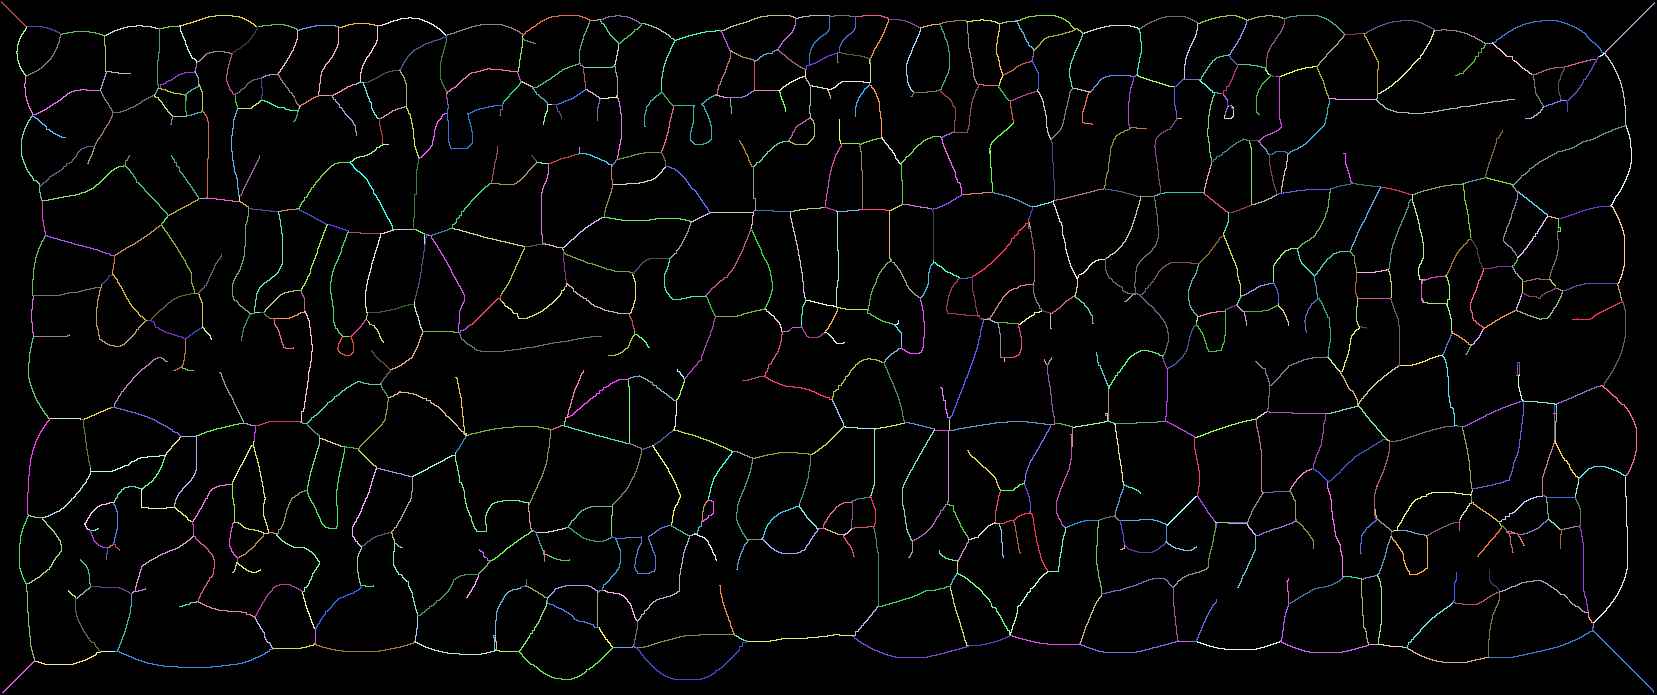
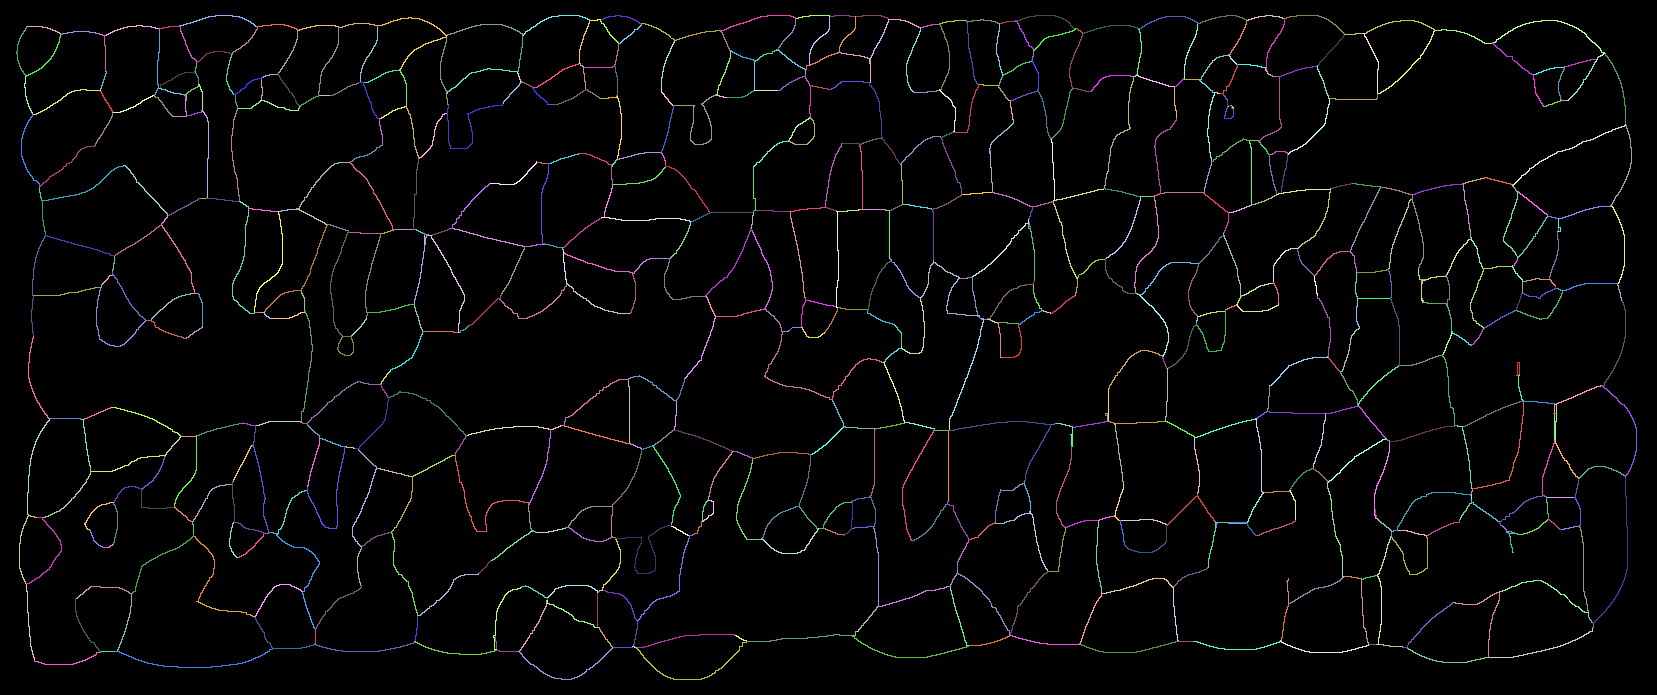
added junction shape calculation
next, classification

diff --git a/main.py b/main.py
@@ -298,9 +298,7 @@ def get_edges(ridges_mask, junction_pixels_mask, vertexes_list):
     # cv2.imwrite('0_edges_mask.png', edges_mask*255)
     # add to a dictionary - edge number, and its list of pixels
     edge_dictionary = {}
-    edge_vertex_dictionary = {}
     edge_set = set()
-    one_vertex_edge_dictionary = {}
     # 0 vertexes, 1 vertexes, 2 vertexes, 3 or more
     stats = [0, 0, 0, 0, 0, 0, 0, 0, 0]
     for i in range(1, n_edges):
@@ -314,11 +312,11 @@ def get_edges(ridges_mask, junction_pixels_mask, vertexes_list):
         # new pixels are added to the edge, then we do the same (increasing edge width/length by 1)
         # new pixels come only from junction pixels
         # this way the edge covers the vertexes as well
-        not_empty = True
+        empty = False
 
         # save_image_like(ridges_mask, edge_pixels, str(i) + "_edge_mask_" + str(j))
-        while not_empty:
-
+        # Note: edges that have one vertex are discarded
+        while not empty:
             # add-in candidate junctions
             # 8-neighborhood of a pixel
             neighborhood = [(-1, -1), (-1, 0), (-1, 1), (0, -1), (0, 0), (0, 1), (1, -1), (1, 0), (1, 1)]
@@ -342,7 +340,7 @@ def get_edges(ridges_mask, junction_pixels_mask, vertexes_list):
             # stopping criteria - once we can't add more pixels to the edge from junction pixels, we stop
             # print(len(candidate_edge_pixels))
             if len(candidate_edge_pixels) == 0:
-                not_empty = False
+                empty = True
             else:
                 edge_pixels += candidate_edge_pixels
             # save_image_like(ridges_mask, edge_pixels, str(i) + "_edge_mask_" + str(j))
@@ -380,25 +378,11 @@ def get_edges(ridges_mask, junction_pixels_mask, vertexes_list):
             edge_dictionary[tuple(start_end_vertexes)] = m_adjacent_edge_pixels
             edge_set.update(edge_pixels)
             stats[2] += 1
-        else:
-            # TODO for now we store them in their own dictionary
-            # once done, we check for each edge if it has minimal overlap with the 2-vertex edges
-            # if so, we do not add them since they are mostly junction 'edges'
-            # otherwise, they are mostly edges that touch document boundaries or document text
-            one_vertex_edge_dictionary[i] = edge_pixels
-
-    # remove edges with one vertex only
-    # for now we remove only those that intersect with other edges - otherwise added as is
-    # TODO decide what to do with this, use or not?
-    # for key in one_vertex_edge_dictionary.keys():
-    #     one_edge_set = set(one_vertex_edge_dictionary[key])
-    #    if len(one_edge_set) - len(set.intersection(one_edge_set, edge_set)) > 10:
-    #       edge_dictionary[key] = one_vertex_edge_dictionary[key]
-    #        rgb_ridge_mask = overlay_edges(rgb_ridge_mask, one_vertex_edge_dictionary[key], (0, 0, 255))
-    #        stats[1] += 1
-    #    else:  # removed
-    #        stats[0] += 1
-
+    # print(stats)
+    # TODO - move to own function - partial edge combination
+    # for each vertex, if it takes part of two edges exactly, we combine the two edges as one
+    # and add the vertex as a new edge pixel
+    # done iteratively until no more vertexes found that have two edges exactly
     before_ridge_mask = cv2.cvtColor(np.zeros_like(ridges_mask), cv2.COLOR_GRAY2RGB)
     for edge_list in edge_dictionary.values():
         before_ridge_mask = overlay_edges(before_ridge_mask, edge_list)
@@ -409,7 +393,6 @@ def get_edges(ridges_mask, junction_pixels_mask, vertexes_list):
         for element in [item for item in edge_dictionary.keys()]:
             all_vertexes.extend(element)
         counted_edges = col.Counter(all_vertexes)
-
         # we check for each vertex in how many edges it participates in
         # each key has two vertexes of an edge (start, end)
         # for each vertex we count the number of times it is found in the edge list
@@ -442,11 +425,38 @@ def get_edges(ridges_mask, junction_pixels_mask, vertexes_list):
     after_ridge_mask = cv2.cvtColor(np.zeros_like(ridges_mask), cv2.COLOR_GRAY2RGB)
     for edge_list in edge_dictionary.values():
         after_ridge_mask = overlay_edges(after_ridge_mask, edge_list)
-    cv2.imshow('result_after', after_ridge_mask)
+    cv2.imwrite('result_after_0.png', after_ridge_mask)
+    # remove all vertexes that have one edge only and their edge as well from the graph
+    done = False
+    while not done:
+        all_vertexes = []
+        for element in [item for item in edge_dictionary.keys()]:
+            all_vertexes.extend(element)
+        counted_edges = col.Counter(all_vertexes)
+        if 1 not in counted_edges.values():
+            done = True
+        else:
+            # find the vertex that has one edge
+            # find first vertex with two edges
+            element = tuple()
+            for e in counted_edges:
+                if counted_edges[e] == 1:
+                    element = e
+                    break
+            # we find the relevant u for the edge (u,v)
+            edge_for_element = [item for item in edge_dictionary.keys() if element in item]
+            # we find the group of pixels of the edge, and remove from dictionary
+            item_0 = edge_for_element[0]
+            edge_dictionary.pop(item_0)
+
+    after_ridge_mask = cv2.cvtColor(np.zeros_like(ridges_mask), cv2.COLOR_GRAY2RGB)
+    for edge_list in edge_dictionary.values():
+        after_ridge_mask = overlay_edges(after_ridge_mask, edge_list)
+    # cv2.imshow('result_after', after_ridge_mask)
     cv2.imwrite('graph_edges_result_after.png', after_ridge_mask)
     cv2.imwrite('left.png', left)
-    cv2.waitKey()
-    cv2.destroyAllWindows()
+    # cv2.waitKey()
+    # cv2.destroyAllWindows()
     return edge_dictionary
 
 
@@ -489,13 +499,111 @@ def pre_process(path):
 
 
 # ---------------------------------------------------------------------------------
+# assistance function - calculates angle between three points, in radians
+def calculate_cos_angle(u, v, w):
+    u_x, u_y = u
+    v_x, v_y = v
+    w_x, w_y = w
+
+    x1 = u_x - v_x
+    y1 = u_y - v_y
+    x2 = w_x - v_x
+    y2 = w_y - v_y
+
+    dot = x1 * x2 + y1 * y2
+    norma_1 = np.sqrt(x1 * x1 + y1 * y1)
+    norma_2 = np.sqrt(x2 * x2 + y2 * y2)
+
+    return dot / (norma_1 * norma_2)
+
+
+# ---------------------------------------------------------------------------------
+# assistance function - calculates for edge (u, v) how close its v junction to the shape of T
+def calculate_junction_score(u, v, edges_dictionary_keys):
+    v_x, v_y = v
+    edges_of_v = []
+    # find all edges in graph that have vertex v as part of it
+    candidates = [e for e in edges_dictionary_keys if v in e]
+    # for each candidate, we ensure that at least one edge is not v and not u, otherwise it might be u,v !
+    for e in candidates:
+        first, second = e
+        if first != v and first != u:
+            edges_of_v.append(first)
+        if second != v and second != u:
+            edges_of_v.append(second)
+    # if we have less than two edges for v after filtering, then v does not have two edges
+    # this means that we can't calculate its score, we return a failure message
+    if len(edges_of_v) < 2:
+        return None, None
+    # we need to find thw two closest edges to point u from v
+    # we calculate the distance between vertex u and each vertex e_i of candidate edge (v, e_i)
+    distances_of_v = []
+    for edge_of_v in edges_of_v:
+        e_x, e_y = edge_of_v
+        distances_of_v.append(np.sqrt(np.power((v_x - e_x), 2) + np.power((v_y - e_y), 2)))
+    # retrieve two closest vertexes to vertex v
+    min_idx = np.argmin(distances_of_v)
+    max_idx = np.argmax(distances_of_v)
+    w1 = edges_of_v[min_idx]
+    edges_of_v[min_idx] = edges_of_v[max_idx]
+    min_idx = np.argmin(distances_of_v)
+    w2 = edges_of_v[min_idx]
+    # now we have three edges: (u, v), (v, w1), (v, w2)
+    # calculate the angles between each two edges
+    angle_uv_vw1 = calculate_cos_angle(u, v, w1)
+    angle_uv_vw2 = calculate_cos_angle(u, v, w2)
+    angle_w1v_vw2 = calculate_cos_angle(w1, v, w2)
+    # we find the junction score by finding how far the 2nd cos(degree) is from 0
+    if angle_w1v_vw2 >= angle_uv_vw1 >= angle_uv_vw2:
+        min_junction_score = np.abs(angle_uv_vw1)
+    elif angle_w1v_vw2 >= angle_uv_vw2 >= angle_uv_vw1:
+        min_junction_score = np.abs(angle_uv_vw2)
+    elif angle_uv_vw2 >= angle_w1v_vw2 >= angle_uv_vw1:
+        min_junction_score = np.abs(angle_w1v_vw2)
+    else:
+        return None, None
+    # return the junction edges (u,v) (v,w1) (v,w2) in two tuple format
+    # also returned the junction score. the closer the score to 0 the more its shape looks like T
+    return tuple([(u, v), (w1, w2)]), min_junction_score
+
+
+# ---------------------------------------------------------------------------------
 # classify edges, bridge or link
 def classify_edges(edges_dictionary):
     classifications = dict()
     # TODO first, we get for each vertex, its list of edges
     # TODO second, for each vertex and its list of edges, we calculate the degrees of each 3 edges
     # TODO 3rd, we find the best result out of three -> closest to a T junction
-    # TODO 4th, if 
+    # TODO 4th, if
+    edge_scores = dict()
+    edge_dictionary_keys = edges_dictionary.keys()
+    for edge in edge_dictionary_keys:
+        u, v = edge
+        if u == v:  # TODO this need to be fixed - remove edges that have same u and v.. why are they present?!?!
+            continue
+        junction, score = calculate_junction_score(u, v, edge_dictionary_keys)
+        if junction is not None:
+            edge_scores[junction] = score
+        junction, score = calculate_junction_score(v, u, edge_dictionary_keys)
+        if junction is not None:
+            edge_scores[junction] = score
+
+    # if score of edge (u,v) + score of edge (v,u) < 1 -> bridge, otherwise, link
+    # not all edges have their mirror edge, we classify by < 0.5 then
+    # TODO think about this .....
+    for elem1 in edge_scores.keys():
+        print('elem1=', elem1)
+        elem2 = tuple([tuple(reversed(elem1[0])), elem1[1]])
+        if elem2 in edge_scores.keys():
+            print(elem2, 'score=', edge_scores[elem2])
+        else:
+            print('no elem2!')
+    print(edge_scores)
+    exit()
+    # we have a dictionary of edge_scores, key is edge (u,v), and value is its T shape score
+    # TODO then decide how to classify !  ! ? ? ? ? ?
+    # TODO this needs to be calculated twice for each edge ? ? ? ? ? ?
+    # TODO !!!!!
 
     return classifications
 
